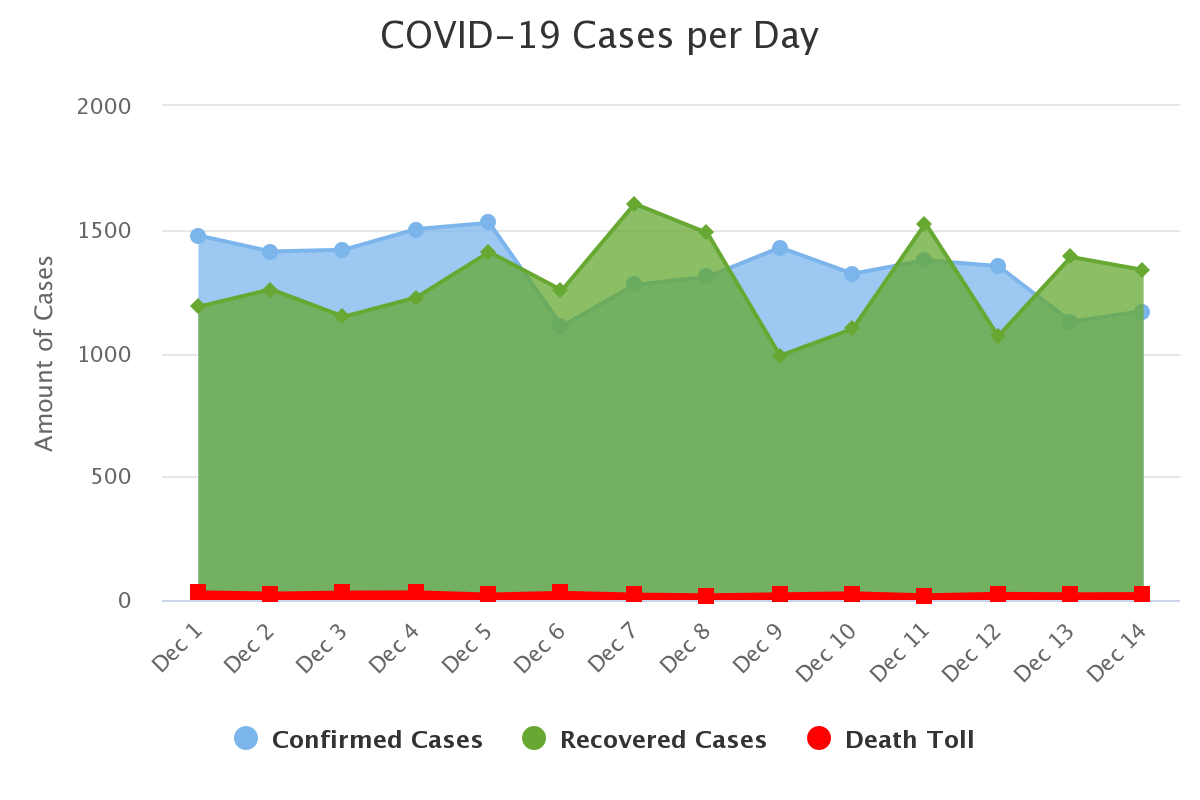
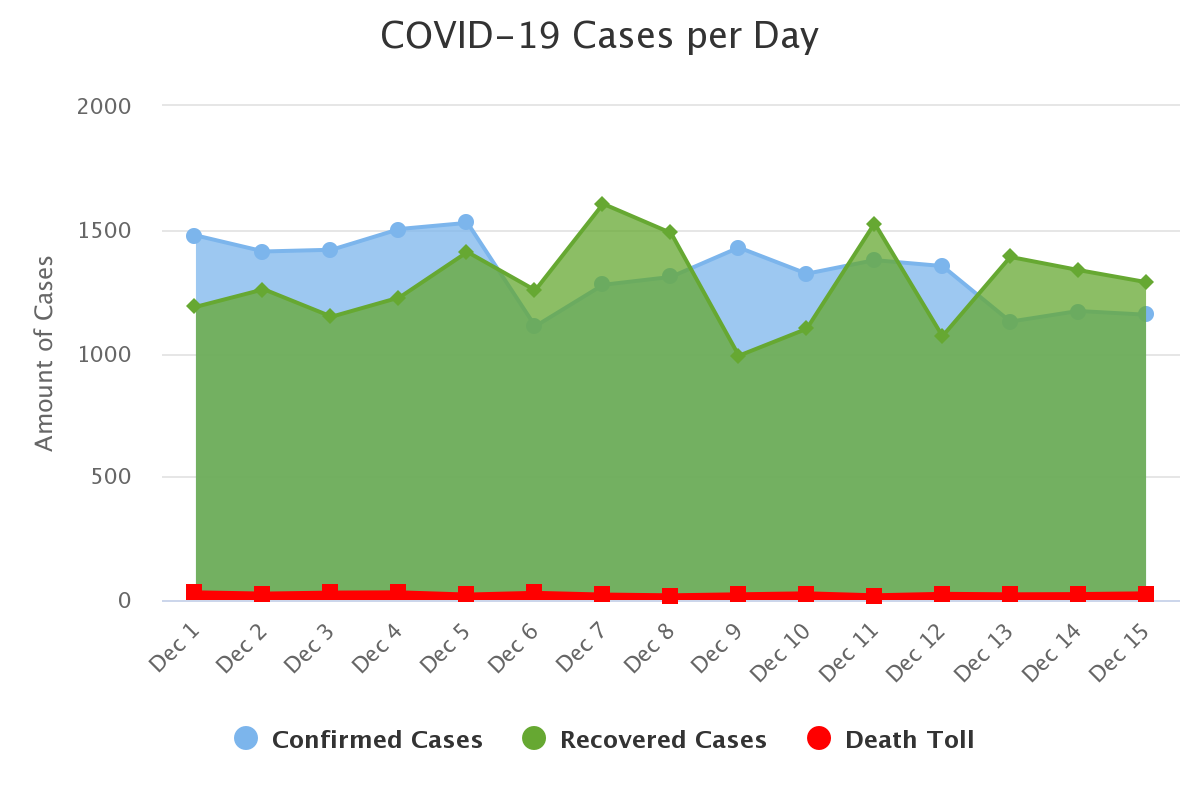
info updating

diff --git a/index.html b/index.html
@@ -34,7 +34,7 @@
 <meta name="keywords" content="COVID-19,Info,Myanmar">
 <meta name="description" content="This is the website where you can find COVID-19 data, and information related to Myanmar (Burma)">
 <meta property="og:image" content="https://covid-19infoweb.netlify.app/images1/icon.png" />
-<meta property="og:description" content="Last Updated on December 14, 8:00 PM" />
+<meta property="og:description" content="Last Updated on December 15, 8:00 PM" />
 <meta property="og:title" content="COVID-19 Info Website" />
 <meta property="og:url" content="https://covid-19infoweb.netlify.app/" />
 <meta property="og:type"          content="informative website" />
@@ -134,7 +134,7 @@
   <div class="card-body">
     <h5 class="card-title">Total Lab Tests</h5>
     <p class="card-text" style="font-size: 18px;
-    font-weight: bold; color: #ffffff;">1,456,866</p>
+    font-weight: bold; color: #ffffff;">1,480,740</p>
   </div>
 </div>
 </div>
@@ -143,7 +143,7 @@
   <div class="card-body">
     <h5 class="card-title">Confirmed Cases</h5>
     <p class="card-text" style="font-size: 18px;
-    font-weight: bold; color: #ffffff;">109,512</p>
+    font-weight: bold; color: #ffffff;">110,667</p>
   </div>
 </div>
   </div>
@@ -152,7 +152,7 @@
   <div class="card-body">
     <h5 class="card-title">Recovered Cases</h5>
     <p class="card-text" style="font-size: 18px;
-    font-weight: bold; color: #ffffff;">88,131</p>
+    font-weight: bold; color: #ffffff;">89,418</p>
   </div>
 </div>
 </div>
@@ -162,7 +162,7 @@
   <div class="card-body">
     <h5 class="card-title">Official Death Toll</h5>
     <p class="card-text" style="font-size: 18px;
-    font-weight: bold; color: #ffffff;">2,292</p>
+    font-weight: bold; color: #ffffff;">2,319</p>
   </div>
 </div>
  </div>
@@ -282,77 +282,77 @@
     <tr>
       <td>1.</td>
       <td>Yangon</td>
-      <td>68,377</td>
+      <td>76,679</td>
     </tr>
     <tr>
       <td>2.</td>
       <td>Mandalay</td>
-      <td>6,505</td>
+      <td>9,839</td>
     </tr>
     <tr>
       <td>3.</td>
       <td>Bago</td>
-      <td>5,507</td>
+      <td>6,506</td>
     </tr>
     <tr>
       <td>4.</td>
       <td>Rakhine</td>
-      <td>3,744</td>
+      <td>4,012</td>
     </tr>
     <tr>
       <td>5.</td>
       <td>Ayeyarwaddy</td>
-      <td>3,092</td>
+      <td>3,926</td>
     </tr>
     <tr>
       <td>6.</td>
       <td>Magaway</td>
-      <td>1,592</td>
+      <td>2,156</td>
     </tr>
     <tr>
       <td>7.</td>
       <td>Mon</td>
-      <td>1,539</td>
+      <td>1,920</td>
     </tr>
     <tr>
       <td>8.</td>
       <td>Sagaing</td>
-      <td>893</td>
+      <td>1,345</td>
     </tr>
     <tr>
       <td>9.</td>
       <td>Kayin</td>
-      <td>702</td>
+      <td>892</td>
     </tr>
     <tr>
       <td>10.</td>
       <td>Shan</td>
-      <td>450</td>
+      <td>629</td>
     </tr>
     <tr>
       <td>11.</td>
       <td>Naypyidaw</td>
-      <td>426</td>
+      <td>536</td>
     </tr>
     <tr>
       <td>12.</td>
       <td>Thanintharyi</td>
-      <td>402</td>
+      <td>480</td>
     </tr>
     <tr>
       <td>13.</td>
       <td>Kachin</td>
-      <td>235</td>
+      <td>409</td>
     </tr>
     <tr>
       <td>14.</td>
       <td>Chin</td>
-      <td>115</td>
+      <td>152</td>
     </tr>
      <tr>
       <td>15.</td>
       <td>Kayah</td>
-      <td>21</td>
+      <td>31</td>
     </tr>
 
   </tbody>
@@ -372,80 +372,80 @@
       <th scope="col">Township</th>
       <th scope="col">Confirmed Cases</th>
     </tr>   
-      <tr>
+    <tr>
       <td>1.</td>
-      <td>NorthOkkalar</td>
-      <td>4,754</td>
+      <td>Mingalardon</td>
+      <td>5,317</td>
     </tr>
     <tr>
       <td>2.</td>
-      <td>Mingalardon</td>
-      <td>4,680</td>
+      <td>NorthOkkalar</td>
+      <td>5,258</td>
     </tr>
     <tr>
       <td>3.</td>
       <td>HlaingTharYar</td>
-      <td>4,006</td>
+      <td>4,388</td>
     </tr>
     <tr>
       <td>4.</td>
       <td>Insein</td>
-      <td>3,710</td>
+      <td>4,148</td>
     </tr>
     <tr>
       <td>5.</td>
       <td>Thingangyun</td>
-      <td>3,608</td>
+      <td>4,025</td>
     </tr>
     <tr>
       <td>6.</td>
       <td>Mayangone</td>
-      <td>2,989</td>
+      <td>3,496</td>
     </tr>
       <tr>
       <td>7.</td>
       <td>ShwePyiThar</td>
-      <td>2,893</td>
+      <td>3,411</td>
     </tr>
     <tr>
       <td>8.</td>
-      <td>Hlaing</td>
-      <td>2,500</td>
+      <td>SouthDagon</td>
+      <td>2,727</td>
     </tr>
     <tr>
       <td>9.</td>
-      <td>Tamwe</td>
-      <td>2,437</td>
-    </tr>
-     <tr>
-      <td>10.</td>
-      <td>Thanlyin</td>
-      <td>2,416</td>
+      <td>Hlaing</td>
+      <td>2,710</td>
     </tr>
     <tr>
+      <td>10.</td>
+      <td>Tamwe</td>
+      <td>2,680</td>
+    </tr>
+     <tr>
       <td>11.</td>
-      <td>SouthOkkalar</td>
-      <td>2,390</td>
+      <td>Thanlyin</td>
+      <td>2,636</td>
     </tr>
     <tr>
       <td>12.</td>
-      <td>Dagon(South)</td>
-      <td>2,313</td>
+      <td>SouthOkkalar</td>
+      <td>2,634</td>
     </tr>
     <tr>
       <td>13.</td>
-      <td>Kamayut</td>
-      <td>1,956</td>
+      <td>Tharketa</td>
+      <td>2,183</td>
     </tr>
     <tr>
-    <td>14.</td>
-      <td>Tharketa</td>
-      <td>1,939</td>
+      <td>14.</td>
+      <td>Kamayut</td>
+      <td>2,182</td>
     </tr>
     <tr>
       <td>15.</td>
-      <td>Kyimindaing</td>
-      <td>1,803</td>
+      <td>NorthDagon</td>
+      <td>1,955</td>
     </tr>
   </tbody>
 </table>

diff --git a/js/chart.js b/js/chart.js
@@ -21,7 +21,7 @@
             },
   series: [{
     name: 'Tests per day',
-    data: [18959,19680,22719,21390,23300,18541,19379,23348,20826,22241,20929,24099,18564,19115,],
+    data: [18959,19680,22719,21390,23300,18541,19379,23348,20826,22241,20929,24099,18564,19115,23874],
     color: "black"
   }]
 });
@@ -45,15 +45,15 @@
             },
   series: [{
     name: 'Confirmed Cases',
-    data: [1476,1411,1418,1502,1527,1108,1276,1308,1427,1321,1376,1352,1127,1170,]
+    data: [1476,1411,1418,1502,1527,1108,1276,1308,1427,1321,1376,1352,1127,1170,1155]
   }, {
     name: 'Recovered Cases',
-    data: [1187,1258,1147,1225,1409,1254,1604,1486,989,1098,1525,1068,1389,1336,],
+    data: [1187,1258,1147,1225,1409,1254,1604,1486,989,1098,1525,1068,1389,1336,1287],
     color: "#66a832"
 
   }, {
     name: 'Death Toll',
-    data: [31,26,30,31,22,29,22,19,23,27,19,25,23,24,],
+    data: [31,26,30,31,22,29,22,19,23,27,19,25,23,24,27],
     color: "red"
   }]
 });
